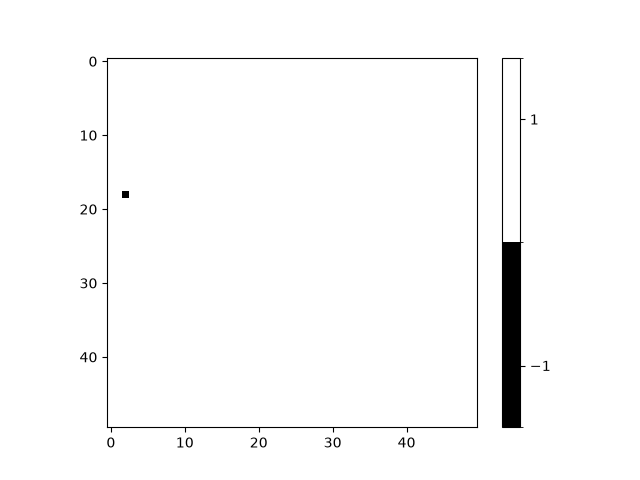
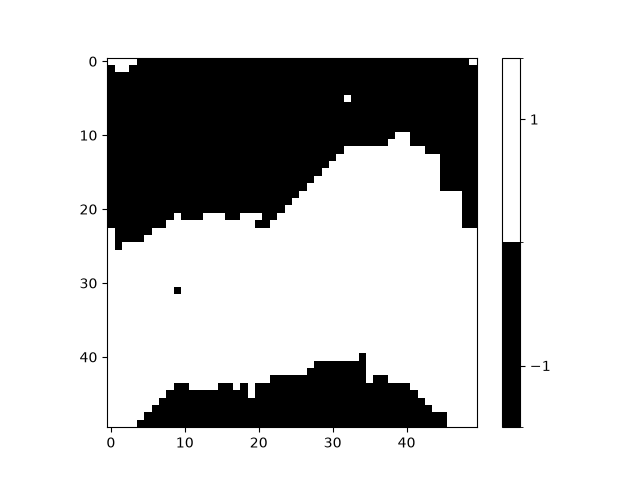
tests

Changed region(s): [[0.1562, 0.125, 0.75, 0.5312], [0.2188, 0.7188, 0.7188, 0.9062], [0.25, 0.5938, 0.2812, 0.625]]

diff --git a/latticechange.py b/latticechange.py
@@ -1,5 +1,5 @@
 import numpy as np
-from python import lattice
+from lattice import lattice
 import random as rand
 
 def main():

diff --git a/plotter.py b/plotter.py
@@ -4,7 +4,7 @@ import matplotlib.pyplot as plt
 from matplotlib.colors import ListedColormap, BoundaryNorm
 
 from latticechange import sweeps
-basis = sweeps(50, 0.05, 0.95,30)
+basis = sweeps(50, 0.00, 0.95,30)
 xvalues = basis[2]
 yvalues = basis[1]
 finallattice = basis[0]